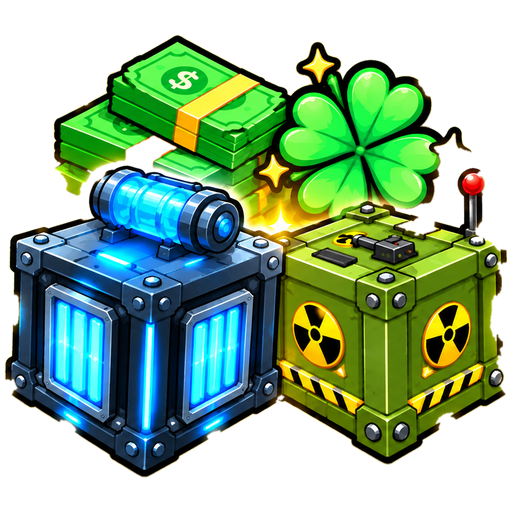
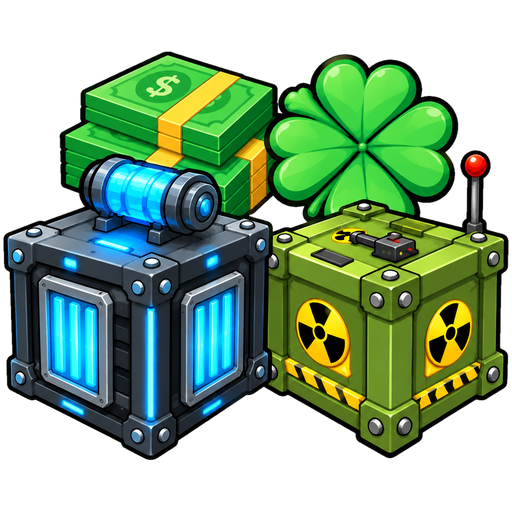
fix(packs): swap the Starter Pack picture for the white-background version
Cleaner cut-out: the ray version lost part of the glow-washed cash stack.

diff --git a/tools/pack-art/README.md b/tools/pack-art/README.md
@@ -1,7 +1,7 @@
 # Pack art
 
-The user's AI pack pictures, cut out of their ray background (flood-fill from the edges,
-stopped by the dark cartoon outline and the saturated green/blue art), cropped square and
+The user's AI pack pictures, cut out of their background (white: near-white flood-fill from the edges plus large
+enclosed white pockets; rays: flood-fill walled by the dark outline), cropped square and
 saved at 512x512. Uploaded with the Studio MCP `upload_image`.
 
 | File | Used as |
